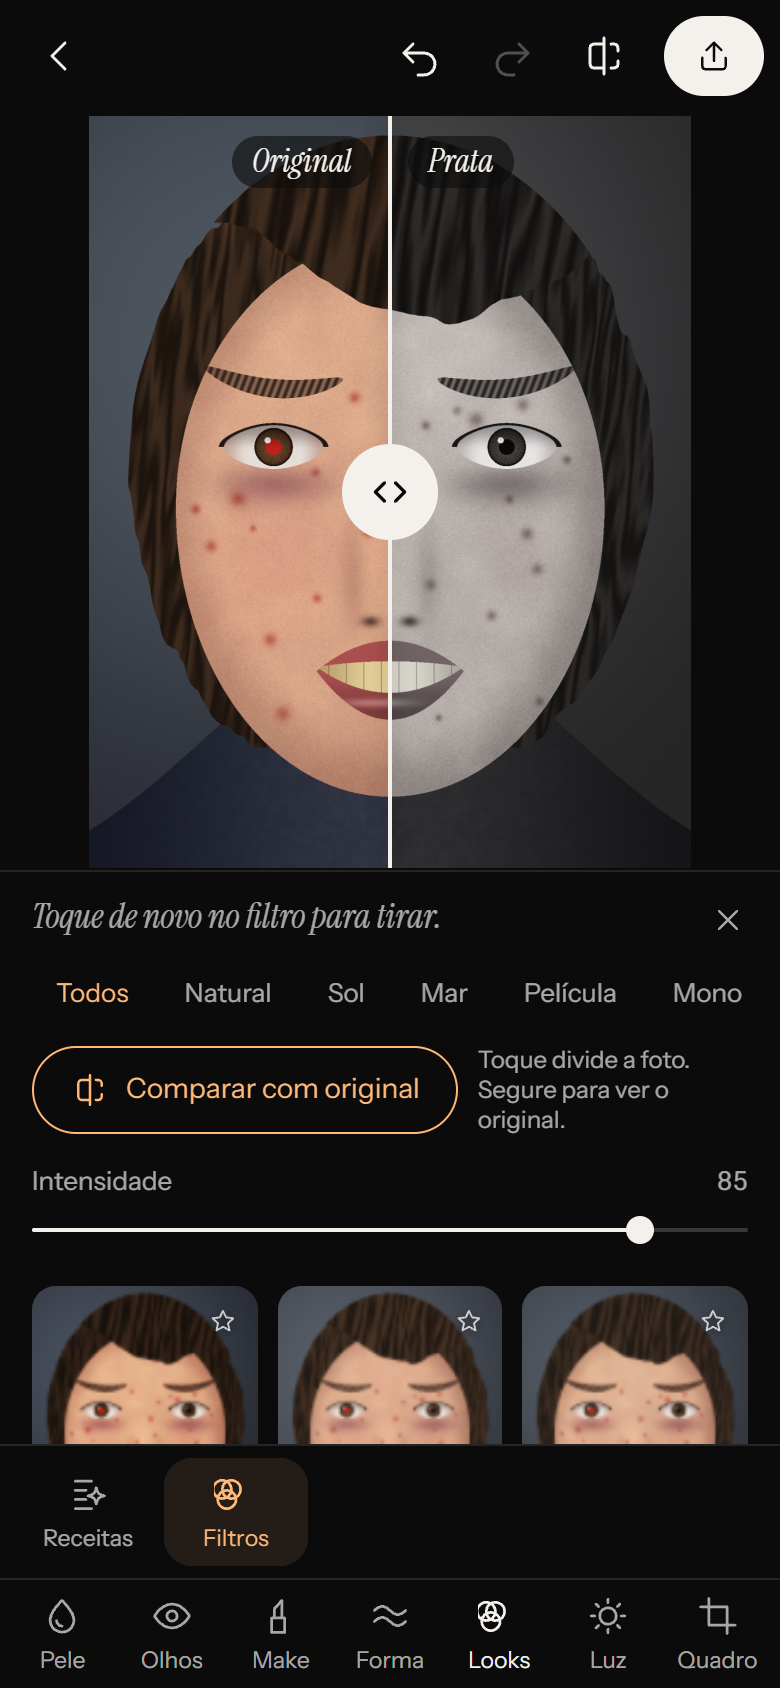
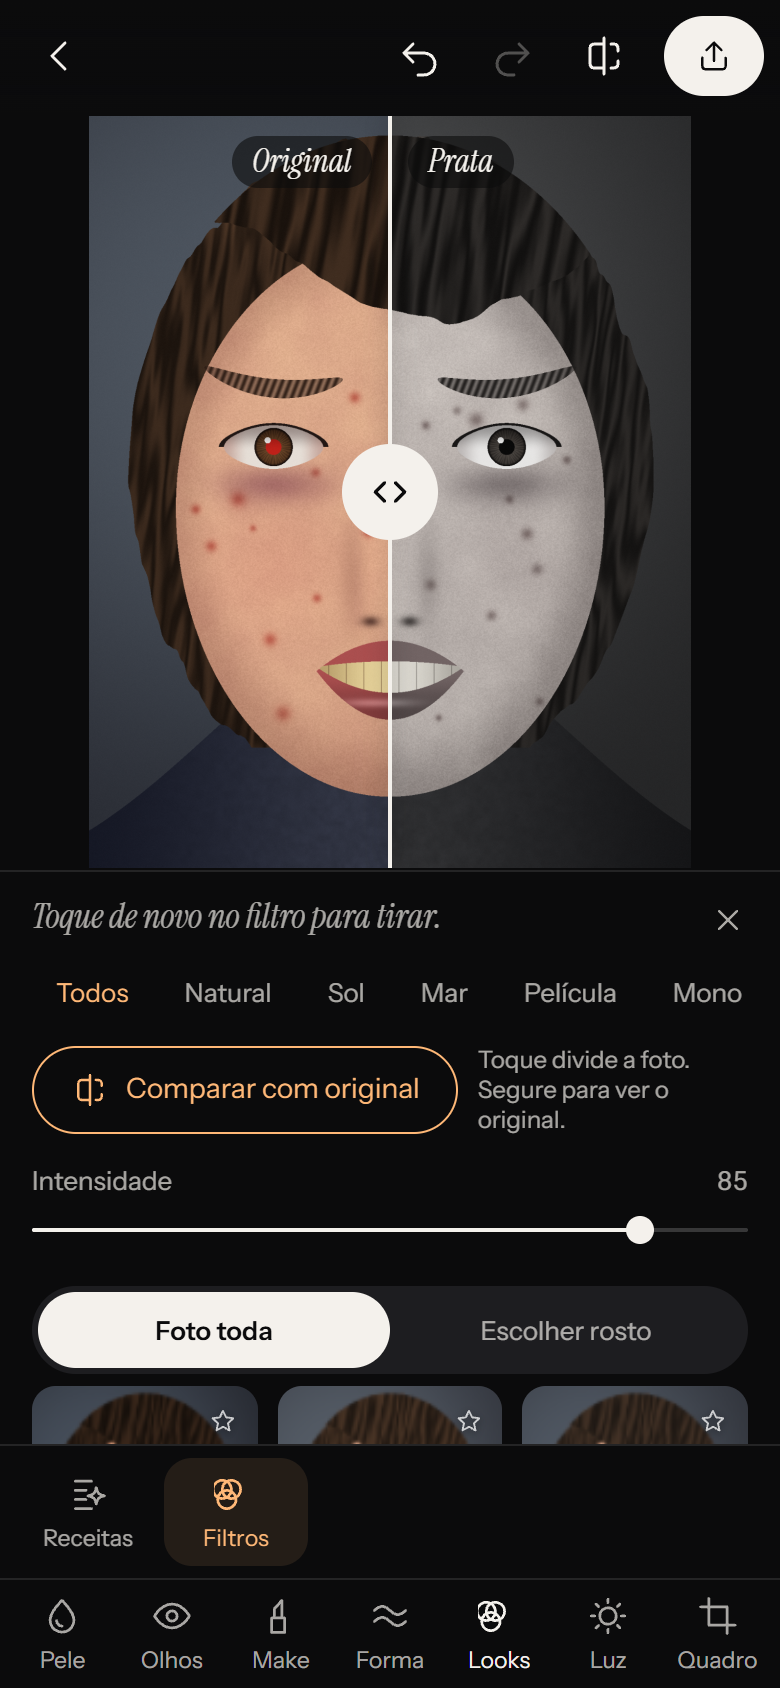
docs: record face detection decisions and measurements
Change the README promise, update decision 28 and add decisions 44 to 54. Add the
flow to the design notes, the milestone and real measurements to the plan, and
the new screenshots.

Changed region(s): [[0.0308, 0.7393, 0.9846, 0.8626]]

diff --git a/docs/DECISIONS.md b/docs/DECISIONS.md
@@ -43,7 +43,7 @@ Registro curto das decisões em aberto: o que foi escolhido e por quê.
 | 25 | Liquify aplicado depois das camadas | A maquiagem acompanha o rosto deformado. |
 | 26 | Sardas procedurais no shader em vez de carimbos gravados | Densidade, tamanho e variação continuam ajustáveis depois de pintar. |
 | 27 | Maquiagem compartilha um shader, com uma pasta por produto | Mesma matemática de mistura, com paletas e pincéis próprios. |
-| 28 | Receitas guardam ajustes, filtro e parâmetros, sem máscara | Sem detecção facial não há onde pintar sozinho. Elas valem para o que já foi pintado e para o que vier. |
+| 28 | Receitas guardam ajustes, filtro e parâmetros, sem máscara | A detecção de rosto existe só para limitar o filtro, nunca para pintar retoques sozinha. Receitas valem para o que já foi pintado e para o que vier. Aplicar uma receita troca o filtro e mantém a área escolhida, e uma receita salva nunca leva a área de uma foto. |
 
 ## Dados e entrega
 
@@ -69,3 +69,19 @@ Registro curto das decisões em aberto: o que foi escolhido e por quê.
 | 41 | Barra e número movidos pelo relógio, não pelos quadros | Passos da GPU bloqueiam a página. Com a mesma fonte os dois nunca discordam, e o brilho em CSS segue animado no compositor durante o bloqueio. |
 | 42 | Área de soltar global, fim do arraste detectado por silêncio de 600 ms | Sem isso, soltar no editor trocava a página pelo arquivo. `dragleave` não é confiável entre navegadores e não existe ao apertar Esc. |
 | 43 | Comparar filtro renderiza o quadro sem filtro em um buffer extra, criado só enquanto a comparação está aberta | Comparar com o original misturaria retoques com o filtro. São 32 MB a mais em foto de 2048 px, pagos só durante o uso. |
+
+## Filtro em um rosto
+
+| # | Decisão | Motivo |
+| --- | --- | --- |
+| 44 | Detecção de rosto com MediaPipe Face Landmarker, só para limitar o filtro | A regra era sem IA e sem detecção. Ela mudou apenas para isso, porque filtro em um rosto de foto com várias pessoas pede saber onde cada rosto está. `picojs` foi recusado por não declarar licença. Detecção em servidor quebraria a promessa de nada sair do aparelho. |
+| 45 | Dizer que há um rosto e onde, nunca de quem é | Nenhum descritor, nenhuma comparação entre rostos. O contorno fica em memória, só para a foto aberta. O projeto guarda apenas a máscara, que é uma área como a pintada à mão. |
+| 46 | Biblioteca, WebAssembly e modelo servidos pelo próprio site | Nada de CDN: a CSP continua sem origens externas e a foto não depende de terceiros. O custo é `'wasm-unsafe-eval'` em `script-src`. Os três cartões de modelo e a biblioteca são Apache 2.0, com aviso em `public/third-party.txt`. |
+| 47 | Detector baixa só no primeiro pedido e fica fora do precache | A primeira visita continua leve: 27,3 KB de JS em gzip, contra 26,6 KB antes. O primeiro uso transfere 6,13 MB com brotli, medidos na rede. Sem brotli no servidor, cerca de 7,6 MB em gzip. |
+| 48 | Busca em tiles: foto toda, depois 1/2, 1/4 e 1/8 do lado maior, com metade de sobreposição | O detector olha a imagem em 128 px e foi feito para rosto perto da câmera. Em 7 fotos reais de grupo, a passada única achou 0 rosto. Com tiles achou 24 de 24, 29 de 29 e 23 de 23. |
+| 49 | A busca desce um nível enquanto nada foi achado ou o nível trouxe rosto novo | Selfie termina em 0,3 s sem pagar pelos tiles finos. O botão "Procurar mais rostos" cobre rosto pequeno ao lado de rosto grande. |
+| 50 | Detector na thread principal, com delegate CPU | Um tile leva cerca de 20 ms e a página pinta entre tiles, então um worker traria complexidade sem ganho visível. CPU evita disputar a GPU com o editor. O delegate GPU não foi medido. |
+| 51 | WebAssembly baixado pelo Glowup e entregue ao runtime pelo hook `instantiateWasm` | Dá porcentagem real em bytes e um único download. O hook `wasmBinary` não existe neste build. Sem compilação em streaming, que aqui custou menos de 0,5 s. Versão fixada em 1.2.2 porque isso depende do runtime. |
+| 52 | Máscara do filtro em R8, no espaço da foto original, lida na posição já deformada | O shader lê a máscara em `iuv + d`, o mesmo ponto de onde vem a cor, então ela acompanha o liquify de graça. Por usar UV da imagem, preview, zoom e tiles de exportação leem o mesmo valor. |
+| 53 | Máscara do rosto: `FACE_OVAL` preenchido, leve desvanecer pescoço abaixo, desfoque e guided filter em CPU | Roda uma vez por toque, sobre o recorte do rosto, e pode ser testada com Vitest. O guided filter cola a borda no contorno real da foto. O desvanecer segue a direção da testa ao queixo e evita o corte duro no pescoço com filtro preto e branco. |
+| 54 | Borda ajustada na hora de renderizar, por níveis de mip | Vale também para o que foi pintado à mão, responde na hora e não exige guardar o contorno no projeto. É relativa ao tamanho da área, para não apagar um rosto pequeno. |

diff --git a/docs/PLAN.md b/docs/PLAN.md
@@ -70,6 +70,15 @@
 - [x] Comparar com e sem filtro no painel de filtros
 - [x] Divisão do antes e depois presa à foto, no celular e no desktop
 
+## M11. Filtro em um rosto
+
+- [x] Detector MediaPipe no próprio site, baixado só no primeiro pedido
+- [x] CSP com `'wasm-unsafe-eval'` e `application/wasm` nos exemplos de deploy
+- [x] Busca em tiles para rostos pequenos, com anéis e escolha por toque
+- [x] Máscara do rosto com borda suave, refino de contorno e desvanecer no pescoço
+- [x] Pincel, borracha e borda sobre a máscara, e pintura à mão quando não há rosto
+- [x] Máscara no develop, com liquify, comparação, zoom, exportação e projeto salvo
+
 ## Metas medidas
 
 Foto gerada de 12 MP (4000 x 3000), Chromium com aceleração, em uma placa dedicada (`node scripts/perf.mjs`):
@@ -80,7 +89,44 @@ Foto gerada de 12 MP (4000 x 3000), Chromium com aceleração, em uma placa dedi
 | Liquify em 12 MP | 60 fps | 60 fps, p95 de 17 ms |
 | Exportação JPG de 12 MP | menos de 3 s | 1,3 s |
 | Abrir foto de 12 MP, até o primeiro quadro | sem meta | 1,1 s na primeira vez, 0,3 s depois |
+| Pincel na área do filtro em 12 MP, com borda suave | 60 fps | 60 fps, p95 de 17 ms |
+| Exportação JPG de 12 MP com filtro em máscara e liquify | menos de 3 s | 1,4 s |
+| Ligar o detector e buscar em 12 MP sem rosto, o pior caso de tiles | sem meta | 2,1 s, sem contar a rede |
 
 A primeira abertura é mais lenta porque compila os shaders. Pincel oscilou entre 57 e 60 fps entre medições.
 
 Notebook comum e celular médio não foram medidos: não havia esses aparelhos no ambiente de desenvolvimento.
+
+### Detector de rostos
+
+Transferência medida na rede, com os arquivos `.br` do build:
+
+| Item | Bytes |
+| --- | --- |
+| Primeira visita, JS de entrada em gzip | 27.265 (antes: 26.622) |
+| Primeiro uso: modelo | 3.147.906 |
+| Primeiro uso: WebAssembly | 2.872.642 |
+| Primeiro uso: carregador e biblioteca | 106.573 |
+| Primeiro uso: anéis, JS e CSS | 1.803 |
+| Primeiro uso: total | 6.128.924 |
+
+O build ficou mais lento: o brotli do WebAssembly leva a maior parte de cerca de 38 s.
+
+Fotos reais de domínio público, usadas só localmente, com a mesma máquina da tabela acima. Rostos
+contados a olho.
+
+| Foto | Tamanho | Passada única | Com tiles | Falsos | Busca |
+| --- | --- | --- | --- | --- | --- |
+| Retrato, 1 pessoa | 2548 x 3558 | 1 de 1 | 1 de 1 | 0 | 0,1 s |
+| Retrato, 1 pessoa | 2400 x 3000 | 1 de 1 | 1 de 1 | 0 | 0,3 s |
+| Equipe, 6 pessoas | 4000 x 3200 | 0 de 6 | 6 de 6 | 0 | 1,6 s |
+| Grupo, 10 pessoas | 7433 x 4955 | 0 de 10 | 10 de 10 | 0 | 3,4 s |
+| Grupo, 23 pessoas | 8411 x 4731 | 0 de 23 | 23 de 23 | 0 | 3,0 s |
+| Grupo, 24 pessoas | 4096 x 2722 | 0 de 24 | 24 de 24 | 1 (mão) | 3,7 s |
+| Grupo antigo em preto e branco, 29 pessoas | 3000 x 2171 | 0 de 29 | 29 de 29 | 0 | 3,1 s |
+| 3 pessoas, duas de perfil ou de costas | 2100 x 1500 | 0 de 3 | 1 de 3 | 0 | 0,4 s |
+| 2 pessoas, uma olhando para baixo | 3000 x 1992 | 0 de 2 | 1 de 2 | 2 (mão, joelho) | 2,0 s |
+
+Rosto de perfil, de costas ou olhando para baixo escapa. Nesses casos a pessoa pinta a área. Abaixo de
+cerca de 1,2% do lado maior o rosto também escapa, por limite do tile mais fino. O total de fotos é
+pequeno e a amostra de tons de pele também: isto é um teste de fumaça, não uma medida de precisão.

diff --git a/README.md b/README.md
@@ -4,7 +4,9 @@ Editor de retoque de fotos que roda inteiro no navegador. Pincéis manuais, ajus
 e exportação em resolução total, tudo processado na GPU do aparelho de quem usa.
 
 - **Nada sai do aparelho.** Não há backend, API nem upload. O servidor só entrega arquivos estáticos.
-- **Sem IA.** Nada de modelos nem detecção facial: é processamento de imagem clássico em shaders.
+- **IA só para achar rostos, no seu aparelho.** Quando você pede para aplicar um filtro em um rosto,
+  um detector roda no navegador e diz onde há rostos. Ele nunca diz quem é a pessoa, e nada disso é
+  salvo. O resto é processamento de imagem clássico em shaders.
 - **Não destrutivo.** A original fica intacta. Cada edição é uma operação que pode ser desfeita,
   ajustada ou apagada.
 
@@ -42,6 +44,10 @@ profundidade), sardas procedurais.
 **Geral:** 40 filtros em 10 categorias com intensidade e favoritos, receitas prontas e suas,
 11 ajustes, desfoque radial e tilt-shift, recorte com rotação, espelho, endireitar e proporções,
 antes/depois (segurar ou dividir, com a foto original ou só sem o filtro), exportação em JPG, PNG e WebP.
+
+Um filtro vale para a foto toda ou para um rosto escolhido: um anel aparece em cada rosto, um toque
+escolhe, e pincel e borracha acertam a área. Sem rosto na foto, a área é pintada à mão. O detector
+baixa só na primeira vez que alguém pede, cerca de 6 MB, do próprio site.
 
 Solte a foto em qualquer lugar da tela, inclusive no editor. Abrir e exportar mostram a porcentagem e o
 passo atual, com a própria foto revelando na tela.
@@ -91,6 +97,7 @@ passo atual, com a própria foto revelando na tela.
 | `src/core/pipeline` | contextos de render, cadeia de estágios, pull-push |
 | `src/core/history` | pilha de desfazer e codec de tiles |
 | `src/core` | documento, geometria, pincel, máscaras, exportação, projetos |
+| `src/core/face` | busca de rostos em tiles, máscara do rosto e detector carregado sob demanda |
 | `src/tools/<ferramenta>` | shader, lógica e painel de cada ferramenta, carregados sob demanda |
 | `src/presets` | LUTs procedurais, receitas e miniaturas |
 | `src/ui` | interface em Svelte |
@@ -108,6 +115,8 @@ Algumas decisões do pipeline:
 - Manchas viram operações independentes de resolução: uma membrana suave preenche o buraco e a
   textura fina vem de uma área vizinha escolhida automaticamente.
 - A exportação usa o mesmo pipeline, em tiles com margem, e não deixa emendas.
+- O filtro pode ter máscara própria, presa à foto original: ela acompanha o liquify e vale igual no
+  preview, no zoom, na exportação e no projeto salvo.
 
 O motivo de cada escolha está em [docs/DECISIONS.md](docs/DECISIONS.md), e a identidade visual em
 [docs/DESIGN.md](docs/DESIGN.md).
@@ -146,3 +155,9 @@ navegador saber codificar o formato: quando não sabe, a opção não aparece.
 
 Código sob [MIT](LICENSE). Fontes Instrument Serif e Instrument Sans sob SIL Open Font License,
 distribuídas via Fontsource.
+
+## Licenças de terceiros
+
+O detector de rostos usa `@mediapipe/tasks-vision` e o modelo `face_landmarker.task`, ambos sob
+Apache 2.0. O aviso e o texto da licença estão em [`public/third-party.txt`](public/third-party.txt)
+e seguem junto com o site.

diff --git a/docs/DESIGN.md b/docs/DESIGN.md
@@ -102,6 +102,22 @@ Duas comparações, cada uma com uma pergunta:
 Tocar divide a foto, segurar mostra o antes. A divisão fica enquanto a pessoa experimenta outros
 filtros, para comparar sem perder o lugar. Ela nasce no centro da foto, não da tela, e não sai dela.
 
+## Filtro em um rosto
+
+Depois de escolher um filtro, o painel pergunta onde ele vale: "Foto toda" ou "Escolher rosto".
+
+- **Primeira vez.** O cartão de progresso mostra o download real do detector e avisa que acontece uma
+  vez só e que a foto não sai do aparelho. Nas seguintes, só "Procurando rostos".
+- **Anéis.** Um anel oval em cada rosto, nunca menor que um dedo. Um toque escolhe. O filtro continua
+  na foto toda até esse toque, e `Esc` volta atrás. Os anéis acompanham zoom, recorte, giro e liquify.
+- **Retoque.** Escolhido o rosto, a foto passa a aceitar pincel e borracha, e "Borda" controla a
+  suavidade. "Trocar rosto" mostra os anéis de novo.
+- **Sem rosto, ou sem detector.** O aviso diz o que fazer e o pincel já está na mão. "Pintar a área"
+  leva ao mesmo lugar quando o rosto certo não ganhou anel.
+
+O detector erra de dois jeitos que a interface assume: pode pôr anel em uma mão, que a pessoa
+simplesmente não toca, e pode deixar passar rosto de perfil, que ela pinta.
+
 ## Layout
 
 Mobile primeiro. A tela é a foto.
@@ -126,6 +142,7 @@ Exemplos:
 - Exportação: "Prontinho. Tá na sua pasta."
 - Erro de arquivo: "Não consegui abrir esse arquivo. Tenta um JPG, PNG ou WebP?"
 - Sem WebGL2: "Este navegador não acende a luz: falta WebGL2."
+- Escolher rosto: "Toque no rosto que recebe o filtro." e "Não achei rosto nesta foto. Pinte a área com o pincel."
 
 ## Acessibilidade
 

diff --git a/docs/visual-checks/README.md b/docs/visual-checks/README.md
@@ -5,7 +5,12 @@ de propósito manchas, olheiras, olho vermelho e dentes amarelados. Nenhuma pess
 
 - `NN-*.png`: antes e depois de cada ferramenta.
 - `ui-*.png`: telas da interface no desktop e no celular, incluindo soltar a foto (`ui-soltar*`),
-  progresso (`ui-abrindo`, `ui-exportando`, `ui-exportado`) e comparação de filtro (`*filtro-comparar`).
+  progresso (`ui-abrindo`, `ui-exportando`, `ui-exportado`), comparação de filtro (`*filtro-comparar`)
+  e filtro em um rosto (`ui-rosto-*`, `ui-celular-rosto`).
+- `20-filtro-rosto.png`: filtro em um dos dois rostos de `tests/fixtures/group.png`.
+
+Os anéis destas imagens vêm do detector real: o retrato procedural basta para ele. A borda e o pescoço
+foram ajustados em fotos reais de domínio público, que ficaram fora do repositório.
 
 O retrato é sintético, então estas imagens mostram o comportamento de cada ferramenta, não a aparência
 final em uma foto real. Os traços vêm de um script: pequenos excessos de tinta fora dos lábios ou do
